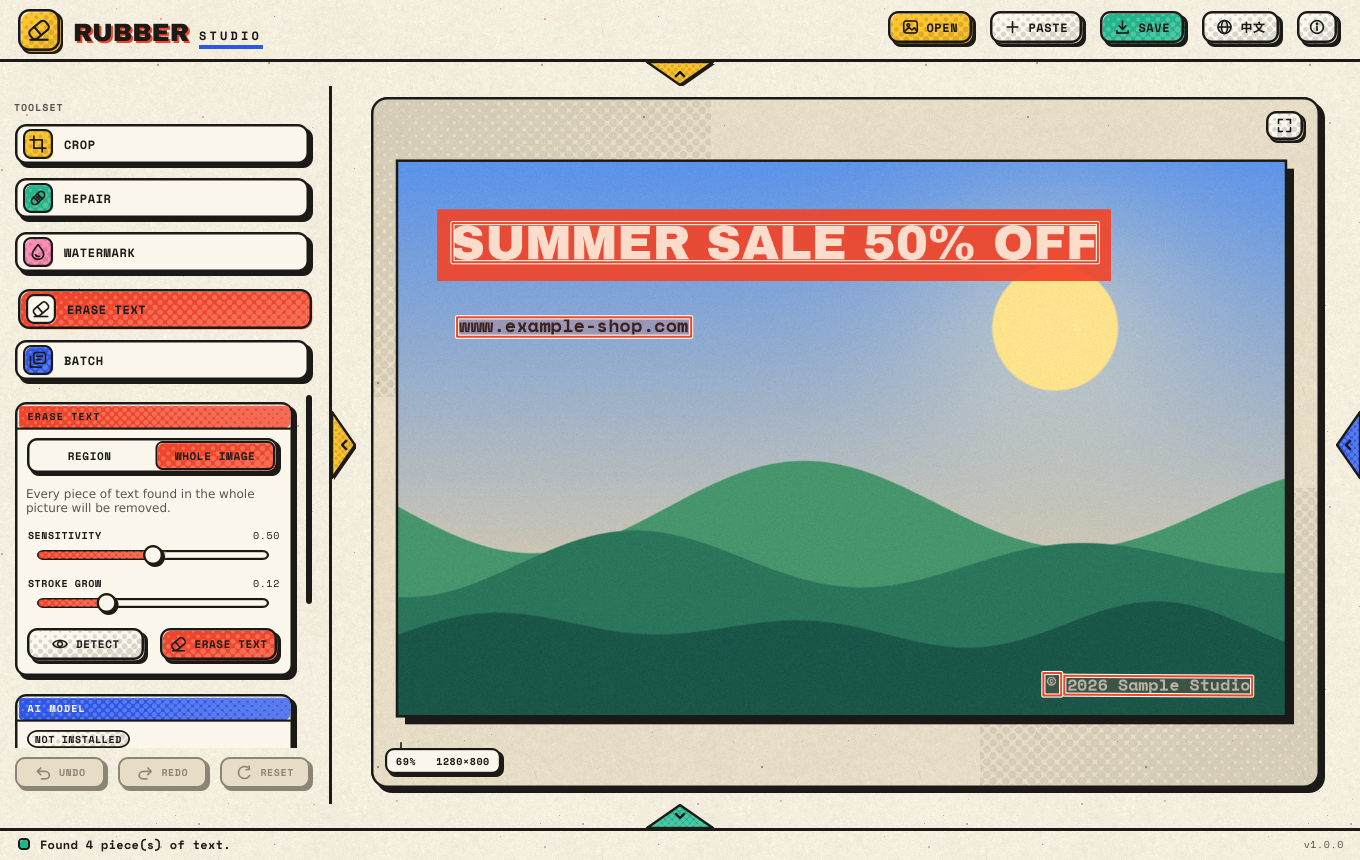
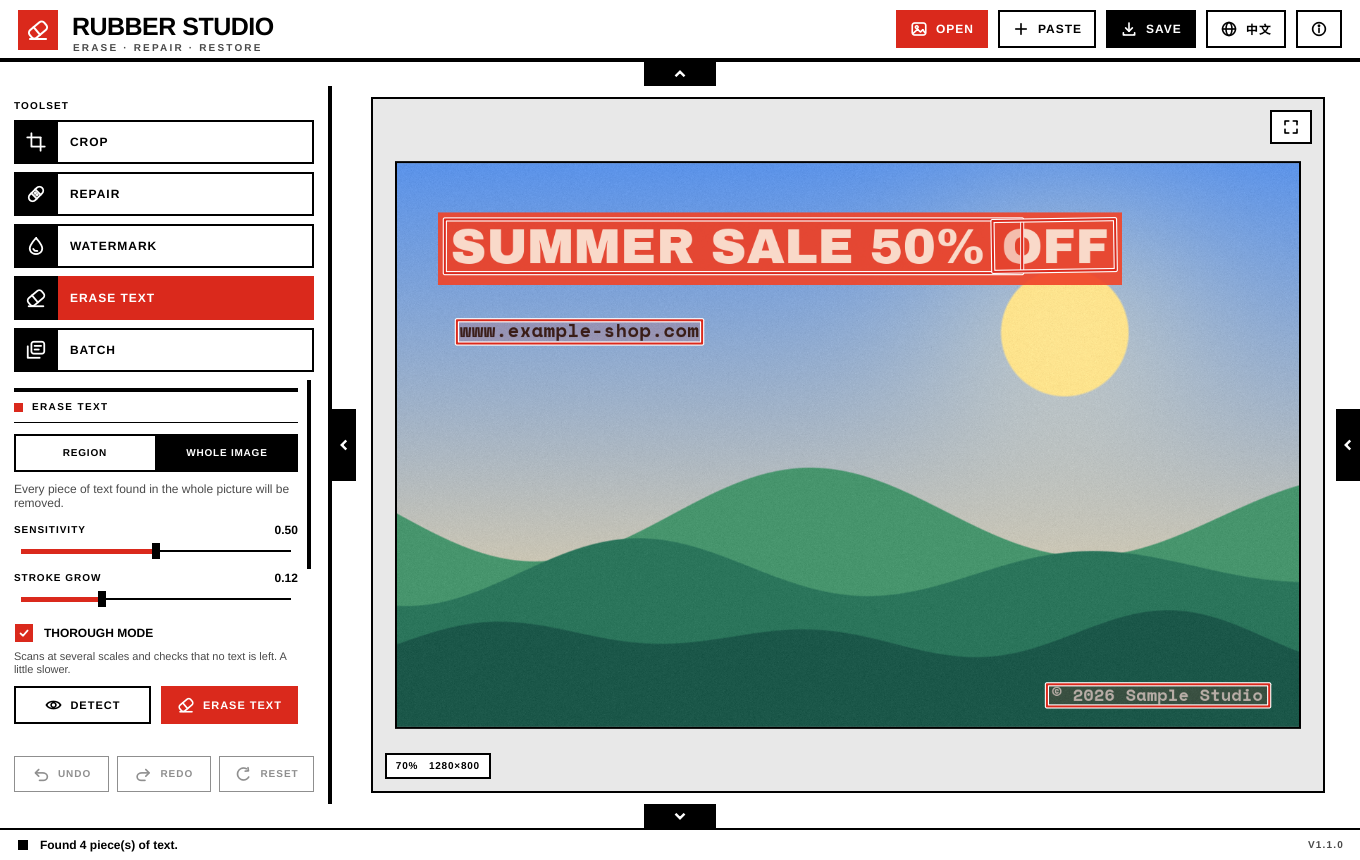
RUBBER STUDIO 1.1.0: documentation, changelog and release notes
- README (English and Chinese) rewritten: the fill engines and their speeds, the
  verification-based removal pipeline, the NASA-1975-inspired design (with a note
  that the project is not affiliated with NASA), layout, release steps for v1.1.0.
- NOTICE: PP-OCRv4 and PP-OCRv5 detectors (Apache-2.0), optional MI-GAN (MIT),
  Liberation Sans as the interface font, demo-only fonts.
- CHANGELOG.md added; the release page text now lists what is new in 1.1.
- Screenshots regenerated from real runs of the new interface on the synthetic
  sample picture.
- Version 1.1.0.

Claude-Session: https://claude.ai/code/session_01F8gxvCXadRXd2xxKrfwhYd

diff --git a/rubberstudio/__init__.py b/rubberstudio/__init__.py
@@ -1,5 +1,5 @@
 """RUBBER STUDIO — erase, repair, restore. Batch text removal for images."""
 
-__version__ = "1.0.0"
+__version__ = "1.1.0"
 APP_NAME = "RUBBER STUDIO"
 APP_ID = "RubberStudio"

diff --git a/README.md b/README.md
@@ -14,19 +14,22 @@ Batch-remove text from images — plus retouching, cropping and watermarking —
 
 [**⬇ Download for Windows**](../../releases/latest) · [简体中文](README.zh-CN.md)
 
-<img src="docs/images/batch.png" alt="RUBBER STUDIO — batch text removal with the film-strip queue" width="900">
+<img src="docs/images/batch.png" alt="RUBBER STUDIO — batch text removal with the queue" width="900">
 
 </div>
 
 ## What it does
 
 - **Batch text removal** — drop a pile of pictures or whole folders onto the window, press *Start*, and every image comes
-  back with its text gone. The queue is a *film strip* with live status for each frame; you can stop at any time,
-  re-run, open any frame in the editor and compare before / after.
-- **Real text removal, not blur** — an on-device detector (PP-OCRv4, Chinese + English + mixed text) finds the text, and
-  only the *letter strokes* are repainted, so the picture around the text stays untouched. Flat and gradient
-  backgrounds (banners, subtitles, captions, watermarks) are filled instantly; busy photo backgrounds can use an
-  optional AI inpainting model (LaMa) that is downloaded once and then works offline.
+  back with its text gone. The queue shows live status for every picture; you can stop at any time, re-run, open any
+  picture in the editor and compare before / after.
+- **Real text removal, not blur** — two on-device detectors (PP-OCRv4 and PP-OCRv5, Chinese + English + mixed text, run at
+  several scales) find the text, and only the *letter strokes* are repainted, so the picture around the text stays
+  untouched. In *thorough mode* every stroke mask is checked by the detector itself — if text would still be visible it
+  tries the next candidate — so thin, soft or letter-spaced type does not survive.
+- **Choose the fill engine** — *Auto*, *Fast*, *MI-GAN* or *LaMa*. Flat and gradient backgrounds (banners, subtitles,
+  captions, watermarks) are filled instantly by the built-in fill; patterned or photographic backgrounds use a neural
+  model that is downloaded once (only after you confirm) and then works offline. See [Fill engines](#fill-engines).
 - **Safe by default** — originals are never overwritten. Results go to a `RubberStudio_clean` folder next to each image
   (or any folder you pick), with a file-name suffix, output format (same / PNG / JPG / WebP) with quality, sub-folder
   structure kept, and a rule for existing files (rename / skip / overwrite). Several images are processed in parallel;
@@ -36,14 +39,15 @@ Batch-remove text from images — plus retouching, cropping and watermarking —
 - **Single-image tools** — *Erase text* (whole image or a framed region, with a detection preview and a before / after
   switch), *Repair* brushes (heal, smudge, re-grain texture), *Crop* and a text *Watermark* with font, colour, size and
   opacity.
-- **Private** — nothing is uploaded. The only network access is the optional AI model download, and only after you
+- **Private** — nothing is uploaded. The only network access is the optional model download, and only after you
   confirm it.
 - **Windows-ready** — portable folder (no installer, no admin rights), Unicode / Chinese paths everywhere, high-DPI
   aware, Chinese and English interface.
 
 <div align="center">
-<img src="docs/images/erase-detect.png" alt="Erase text: detection preview" width="440">
-<img src="docs/images/folded.png" alt="All toolbars fold away to maximise the picture" width="440">
+<img src="docs/images/erase-detect.png" alt="Erase text: detection preview" width="290">
+<img src="docs/images/erase-result.png" alt="Text removed, with the fill-engine card" width="290">
+<img src="docs/images/folded.png" alt="All toolbars fold away to maximise the picture" width="290">
 </div>
 
 ## Download (Windows 10 / 11, 64-bit)
@@ -59,7 +63,7 @@ from this repository, and the workflow runs the self-test of the built program b
 If the program does not start on a very fresh Windows install, install the
 [Microsoft Visual C++ Redistributable (x64)](https://aka.ms/vs/17/release/vc_redist.x64.exe).
 
-Settings, logs and the optional AI model live in `%LOCALAPPDATA%\RubberStudio`. Delete that folder to reset everything;
+Settings, logs and the optional models live in `%LOCALAPPDATA%\RubberStudio`. Delete that folder to reset everything;
 delete the program folder to uninstall.
 
 ## Using it
@@ -81,14 +85,24 @@ delete the program folder to uninstall.
 | `0`, wheel, `Space`+drag | fit to window, zoom, pan |
 | `F1` | help |
 
-The toolbars fold away like envelopes (click the tab on the edge) so the picture gets the whole window.
+The toolbars fold away (click the black tab on the edge) so the picture gets the whole window.
 
-### AI fill (optional)
+### Fill engines
 
-Open the *AI model* card in the *Erase text* tool: **Download** fetches `lama.onnx` (about 208 MB, Apache-2.0,
-[Carve/LaMa-ONNX](https://huggingface.co/Carve/LaMa-ONNX)) from Hugging Face or a mirror after you confirm, or
-**Import…** takes a model file you already have. Without it everything still works with the built-in fast fill.
-Tick *Use AI model* to let complicated backgrounds use it automatically, or *Always use AI* to force it.
+The *Fill engine* card (in *Erase text* and *Batch*) decides how the gaps left by the text are filled:
+
+| Engine | Download | Speed¹ | Best for |
+|---|---|---|---|
+| **Auto** (default) | – | 4–23 s | flat backgrounds use the built-in fill, busy ones the best installed model (LaMa, else MI-GAN) |
+| **Fast** | none | ≈ 4 s | banners, captions, gradients, soft shading |
+| **MI-GAN** | ≈ 28 MB | ≈ 7 s | photos and simple textures |
+| **LaMa** | ≈ 208 MB | ≈ 23 s | complex patterns and textures (silk, fabric, foliage) |
+
+¹ an 800 × 800 picture with two lines of text, 2 CPU cores, detection included.
+
+**Download** fetches the model from Hugging Face (or a mirror) after you confirm — the files are checked against a pinned
+SHA-256 — or **Import a model…** takes an ONNX file you already have. A model that is chosen but not installed is
+replaced by the best one that is, and the status bar says so. Models are stored in `%LOCALAPPDATA%\RubberStudio\models`.
 
 ## Run from source
 
@@ -107,7 +121,7 @@ On Windows, `run_windows.bat` does the same in one double-click. Useful switches
 
 ## Build the Windows program yourself
 
-Either let GitHub do it (push a tag such as `v1.0.0`; the workflow builds, tests and attaches the zip to a release), or
+Either let GitHub do it (push a tag such as `v1.1.0`; the workflow builds, tests and attaches the zip to a release), or
 on a Windows machine with Python 3.12:
 
 ```bat
@@ -121,34 +135,39 @@ Tests (engine and GUI, headless): `pip install -r requirements-dev.txt && python
 
 ## How the text removal works
 
-1. **Detect** — a DBNet text detector (PP-OCRv4, ONNX Runtime, CPU) finds text lines; big pictures are processed in
-   overlapping tiles at native resolution so small print is not lost; tiny glyphs next to confident text ("©", bullets,
-   dots) are recovered by hysteresis, and symbols the network does not react to at all are picked up by looking at the
-   pixels right beside a line's ends (same ink colour, glyph-sized, on flat or smoothly shaded backgrounds only).
-2. **Strokes only** — inside each box the background is modelled (a fitted plane on the box margin for flat or smooth
-   surfaces, a local median otherwise) and the pixels that differ from it become the stroke mask, grown a little and
-   closed so no speck of the glyph colour is left to be smeared by the fill.
-3. **Fill** — flat surroundings get a fast inpainting fill with matched grain; busy ones go to LaMa when it is installed.
+1. **Detect** — two DBNet text detectors (PP-OCRv4 and PP-OCRv5-mobile, ONNX Runtime, CPU) look at the picture at
+   several scales and their boxes are merged line by line; big pictures are processed in overlapping tiles at native
+   resolution so small print is not lost. Tiny glyphs next to confident text ("©", bullets, dots) are recovered by
+   hysteresis, and symbols the network does not react to at all are picked up by looking at the pixels right beside a
+   line's ends (same ink colour, glyph-sized, on flat or smoothly shaded backgrounds only).
+2. **Strokes only** — inside each box several candidate ink colours are tried (colour-histogram peaks, the brightest and
+   darkest pixels); each becomes a stroke mask, grown a little and closed so no speck of the glyph colour is left. The
+   candidates are ranked by how clearly they separate the glyphs from their surroundings, and in *thorough mode* the
+   first one that really works wins: the detector looks at the picture with that mask painted over, and only a mask after
+   which no text is left is accepted (otherwise the whole padded box is used).
+3. **Fill** — the gaps are filled in native-resolution 512 × 512 windows with plenty of context, blended with a feathered
+   edge, and the picture's own sensor grain is put back so the repaired spot does not look airbrushed.
 
-Tips: raise *Sensitivity* for faint or stylised text, lower it if non-text shapes get detected; raise *Stroke grow* if
-a thin outline or shadow around the letters survives.
+Tips: raise *Sensitivity* for faint or stylised text, lower it if non-text shapes get detected; raise *Stroke grow* if a
+thin outline or shadow around the letters survives; pick *LaMa* when the background is a dense pattern.
 
 ## Design
 
-The interface speaks a colour-clash paper-and-film pop-art language: flat inks with deliberately mis-registered colour
-fills, Ben-Day halftone dots on every coloured surface, hard offset shadows, buttons that press into them, paper grain,
-Archivo Black + Space Mono type, and toolbars that fold like envelopes. All colours, fonts and metrics are centralised
-in [`rubberstudio/theme.py`](rubberstudio/theme.py).
+The interface follows the discipline of the 1975 NASA Graphics Standards Manual: a white page, black type and rules,
+exactly one red (`#DA291C`) that marks the active tool and the primary action, Helvetica-style type (Liberation Sans,
+bundled), tracked capitals for labels, a heavy rule above every section, and strict rectangles — no gradients, shadows,
+textures or rounded corners. It uses none of NASA's marks and is not affiliated with NASA. All colours, fonts and metrics
+are centralised in [`rubberstudio/theme.py`](rubberstudio/theme.py).
 
 ## Project layout
 
 ```
 rubberstudio/
-  core/        engine without Qt: text detector, stroke mask + fill, LaMa wrapper, batch runner, image I/O
-  widgets/     canvas, drawer pages, film strip, envelope panels, pop-art controls, procedural icons, dialogs
+  core/        engine without Qt: text detectors, stroke mask + verification, fill engines (LaMa / MI-GAN / fast), batch, image I/O
+  widgets/     canvas, tool pages, queue, folding panels, flat controls, procedural icons, dialogs
   editor.py    editing model (tools, undo/redo, async erase)      mainwindow.py   window, drag & drop, shortcuts
   theme.py     design tokens and stylesheet                       strings.py      English / Chinese interface text
-assets/        fonts (OFL), icon, UI images                       packaging/      PyInstaller spec and launcher
+assets/        fonts (OFL), icon, UI images                       packaging/      PyInstaller spec, launcher, icon script
 tests/         engine, batch and GUI tests                        .github/        Windows build workflow
 ```
 
@@ -159,5 +178,5 @@ may infringe their rights.
 
 ## License
 
-[MIT](LICENSE). Third-party components (detection model, fonts, Qt, OpenCV, ONNX Runtime, …) and their licenses are
+[MIT](LICENSE). Third-party components (detection and fill models, fonts, Qt, OpenCV, ONNX Runtime, …) and their licenses are
 listed in [NOTICE.md](NOTICE.md).

diff --git a/README.zh-CN.md b/README.zh-CN.md
@@ -14,29 +14,32 @@
 
 [**⬇ 下载 Windows 版**](../../releases/latest) · [English](README.md)
 
-<img src="docs/images/batch-zh.png" alt="RUBBER STUDIO —— 批量去文字与胶片队列" width="900">
+<img src="docs/images/batch-zh.png" alt="RUBBER STUDIO —— 批量去文字与队列" width="900">
 
 </div>
 
 ## 功能
 
-- **批量去除文字** —— 把一堆图片或整个文件夹拖进窗口，点“开始”，每张图都会去掉文字后输出。队列以“胶片”形式显示，
-  每一帧都有实时状态；可随时停止、重新运行，也可以把任意一帧打开到编辑器里对比“原图”。
-- **真正的去字，而不是模糊** —— 本机文字检测器（PP-OCRv4，支持中文、英文及混排）找到文字，只重绘**笔画本身**，
-  文字周围的画面保持不动。纯色/渐变背景（横幅、字幕、说明文字、水印）瞬间填好；复杂的照片背景可使用可选的
-  AI 修复模型（LaMa），下载一次之后同样离线使用。
+- **批量去除文字** —— 把一堆图片或整个文件夹拖进窗口，点“开始”，每张图都会去掉文字后输出。队列实时显示每张图的状态；
+  可随时停止、重新运行，也可以把任意一张打开到编辑器里对比“原图”。
+- **真正的去字，而不是模糊** —— 两个本机文字检测器（PP-OCRv4 与 PP-OCRv5，支持中文、英文及混排，多尺度检测）找到文字，
+  只重绘**笔画本身**，文字周围的画面保持不动。“彻底模式”下，每个笔画蒙版都会交给检测器自己复查——如果还能看到文字，
+  就换下一个候选——所以细线、浅色、字距很大的文字也不会残留。
+- **可选择的填补引擎** —— “自动 / 快速 / MI-GAN / LaMa”。纯色和渐变背景（横幅、字幕、说明文字、水印）由内置填充瞬间补好；
+  有图案或照片般的背景则交给神经网络模型（确认后下载一次，之后离线使用）。详见[填补引擎](#填补引擎)。
 - **默认安全** —— 绝不覆盖原图。结果默认写入每张图片所在文件夹下的 `RubberStudio_clean`（也可自选文件夹），可设置文件名
   后缀、输出格式（原格式 / PNG / JPG / WebP）及质量、是否保留子文件夹结构，以及文件已存在时的处理（改名 / 跳过 / 覆盖）。
   多张图片并行处理；没有文字的图片也可以一并复制过去。
 - **一个区域，全部适用** —— 在示例图上框出一块位置（比如角落的水印条），所有图片都只清理同一相对位置。
 - **单张图片工具** —— “去除文字”（整张图片或框选区域，带检测预览和“原图”对比开关）、“修复”画笔（修复、涂抹、
   重建颗粒）、“裁剪”，以及可调字体、颜色、大小、不透明度的文字“水印”。
-- **隐私** —— 不上传任何内容。唯一的联网行为是可选的 AI 模型下载，并且只在你确认之后才会进行。
+- **隐私** —— 不上传任何内容。唯一的联网行为是可选的模型下载，并且只在你确认之后才会进行。
 - **为 Windows 准备** —— 绿色免安装文件夹（无需管理员权限），全程支持中文/Unicode 路径，适配高分屏，界面有中文和英文。
 
 <div align="center">
-<img src="docs/images/erase-detect.png" alt="去除文字：检测预览" width="440">
-<img src="docs/images/folded.png" alt="所有工具栏可折叠，让画面占满窗口" width="440">
+<img src="docs/images/erase-detect.png" alt="去除文字：检测预览" width="290">
+<img src="docs/images/erase-result.png" alt="文字已去除，旁边是填补引擎卡片" width="290">
+<img src="docs/images/folded.png" alt="所有工具栏可折叠，让画面占满窗口" width="290">
 </div>
 
 ## 下载（Windows 10 / 11，64 位）
@@ -52,7 +55,7 @@
 如果在很新的 Windows 上无法启动，请安装
 [Microsoft Visual C++ 运行库（x64）](https://aka.ms/vs/17/release/vc_redist.x64.exe)。
 
-设置、日志和可选的 AI 模型都保存在 `%LOCALAPPDATA%\RubberStudio`；删除该文件夹即可恢复初始状态，删除程序文件夹即为卸载。
+设置、日志和可选的模型都保存在 `%LOCALAPPDATA%\RubberStudio`；删除该文件夹即可恢复初始状态，删除程序文件夹即为卸载。
 
 ## 使用方法
 
@@ -71,13 +74,23 @@
 | `0`、滚轮、`空格`+拖动 | 适应窗口、缩放、平移 |
 | `F1` | 帮助 |
 
-工具栏像信封一样可以折叠（点边缘的小标签），让图片占满整个窗口。
+工具栏可以折叠（点边缘的黑色小标签），让图片占满整个窗口。
 
-### AI 填充（可选）
+### 填补引擎
 
-在“去除文字”工具里打开“AI 模型”卡片：点“**下载**”，确认后会从 Hugging Face（或镜像）获取 `lama.onnx`
-（约 208 MB，Apache-2.0，[Carve/LaMa-ONNX](https://huggingface.co/Carve/LaMa-ONNX)）；或者点“**导入…**”选择你已有的模型文件。
-不安装也完全可用（使用内置的快速填充）。勾选“使用 AI 模型”后，复杂背景会自动用它；勾选“始终使用 AI”则强制使用。
+“填补引擎”卡片（在“去除文字”和“批量去文字”里）决定如何补上文字留下的空白：
+
+| 引擎 | 需要下载 | 速度¹ | 适合 |
+|---|---|---|---|
+| **自动**（默认） | – | 4–23 秒 | 平坦背景用内置填充，复杂背景用已安装的最佳模型（优先 LaMa，其次 MI-GAN） |
+| **快速** | 无 | ≈ 4 秒 | 横幅、字幕、渐变、柔和的明暗 |
+| **MI-GAN** | ≈ 28 MB | ≈ 7 秒 | 照片和简单纹理 |
+| **LaMa** | ≈ 208 MB | ≈ 23 秒 | 复杂图案和纹理（丝绸、布料、枝叶） |
+
+¹ 800 × 800 的图片、两行文字、2 核 CPU，含检测时间。
+
+点“**下载**”，确认后会从 Hugging Face（或镜像）获取模型，并用固定的 SHA-256 校验；或者点“**导入模型…**”选择你已有的 ONNX 文件。
+选了但没安装的模型，会改用已安装的最佳模型，并在状态栏提示。模型保存在 `%LOCALAPPDATA%\RubberStudio\models`。
 
 ## 从源码运行
 
@@ -96,7 +109,7 @@ Windows 上双击 `run_windows.bat` 即可完成同样的事。常用参数：`-
 
 ## 自己打包 Windows 程序
 
-要么交给 GitHub 来做（推送一个形如 `v1.0.0` 的标签，工作流会构建、测试，并把 zip 附到发布页），要么在装有 Python 3.12 的 Windows 电脑上运行：
+要么交给 GitHub 来做（推送一个形如 `v1.1.0` 的标签，工作流会构建、测试，并把 zip 附到发布页），要么在装有 Python 3.12 的 Windows 电脑上运行：
 
 ```bat
 build_windows.bat
@@ -109,30 +122,35 @@ build_windows.bat
 
 ## 去字原理
 
-1. **检测** —— DBNet 文字检测器（PP-OCRv4，ONNX Runtime，CPU）找出文字行；大图按重叠分块、以原始分辨率处理，
-   小字不会因缩放而丢失；紧贴可靠文字的小符号（“©”、项目符号、句点）通过滞后阈值找回；模型完全没反应的符号，
-   则直接检查文字行两端旁边的像素来补上（同墨色、字符大小、仅限平坦或平滑渐变的背景）。
-2. **只取笔画** —— 在每个文字框内为背景建模（平坦/平滑背景用框边缘拟合的平面，否则用局部中值），
-   与背景不同的像素就是笔画蒙版；蒙版会稍作扩展并闭合，避免残留的笔画色点被填充算法“抹开”。
-3. **填充** —— 平坦背景用带颗粒匹配的快速修复填充；复杂背景在已安装 LaMa 时交给它处理。
+1. **检测** —— 两个 DBNet 文字检测器（PP-OCRv4 与 PP-OCRv5-mobile，ONNX Runtime，CPU）在多个尺度上观察图片，
+   并按行合并检测框；大图按重叠分块、以原始分辨率处理，小字不会因缩放而丢失。紧贴可靠文字的小符号
+   （“©”、项目符号、句点）通过滞后阈值找回；模型完全没反应的符号，则直接检查文字行两端旁边的像素来补上
+   （同墨色、字符大小、仅限平坦或平滑渐变的背景）。
+2. **只取笔画** —— 在每个文字框内尝试多个候选墨色（颜色直方图的峰值、最亮和最暗的像素），每个候选生成一个笔画蒙版，
+   并稍作扩展、闭合，避免残留的色点。候选按“把字形与周围分开的清晰程度”排序；“彻底模式”下第一个真正有效的获胜：
+   把该蒙版涂掉后让检测器再看一遍，只有“再也检测不到文字”的蒙版才会被采用（否则使用整个带边距的文字框）。
+3. **填充** —— 在原始分辨率的 512 × 512 窗口里带着充足的上下文补空白，边缘羽化融合，并把图片自带的感光颗粒放回去，
+   修补处不会像被喷过一样平滑。
 
-小技巧：文字很淡或有艺术效果时提高“灵敏度”，误检了非文字图形时降低它；字周围的细描边或阴影没去干净时提高“笔画扩展”。
+小技巧：文字很淡或有艺术效果时提高“灵敏度”，误检了非文字图形时降低它；字周围的细描边或阴影没去干净时提高“笔画扩展”；
+背景是密集图案时选“LaMa”。
 
 ## 设计
 
-界面采用撞色纸张 + 胶片的波普风：扁平油墨色与刻意错位的套色填充、所有色块上的 Ben-Day 网点、硬阴影与按下即陷入阴影的按钮、
-纸张颗粒、Archivo Black + Space Mono 字体，以及像信封一样折叠的工具栏。所有颜色、字体和尺寸集中在
+界面遵循 1975 年《NASA 平面设计标准手册》的纪律：白色页面、黑色文字与线条、只用一种红色（`#DA291C`）来标记当前工具和主要操作、
+Helvetica 风格字体（内置 Liberation Sans）、加宽字距的大写标签、每个分区上方的粗黑线，以及严格的直角矩形——没有渐变、阴影、
+纹理和圆角。不使用任何 NASA 标识，也与 NASA 无关。所有颜色、字体和尺寸集中在
 [`rubberstudio/theme.py`](rubberstudio/theme.py)。
 
 ## 目录结构
 
 ```
 rubberstudio/
-  core/        不依赖 Qt 的引擎：文字检测、笔画蒙版与填充、LaMa 封装、批量运行器、图片读写
-  widgets/     画布、工具抽屉页、胶片队列、信封面板、波普控件、矢量图标、对话框
+  core/        不依赖 Qt 的引擎：文字检测、笔画蒙版与复查、填补引擎（LaMa / MI-GAN / 快速）、批量运行器、图片读写
+  widgets/     画布、工具页、队列、可折叠面板、扁平控件、矢量图标、对话框
   editor.py    编辑模型（工具、撤销/重做、异步擦除）     mainwindow.py   主窗口、拖放、快捷键
   theme.py     设计规范与样式表                           strings.py      中英文界面文字
-assets/        字体（OFL）、图标、界面图片                packaging/      PyInstaller 规格与启动器
+assets/        字体（OFL）、图标、界面图片                packaging/      PyInstaller 规格、启动器、图标脚本
 tests/         引擎、批量与界面测试                       .github/        Windows 构建工作流
 ```
 
@@ -142,4 +160,4 @@ tests/         引擎、批量与界面测试                       .github/    
 
 ## 许可证
 
-[MIT](LICENSE)。第三方组件（检测模型、字体、Qt、OpenCV、ONNX Runtime 等）及其许可证见 [NOTICE.md](NOTICE.md)。
+[MIT](LICENSE)。第三方组件（检测与填补模型、字体、Qt、OpenCV、ONNX Runtime 等）及其许可证见 [NOTICE.md](NOTICE.md)。

diff --git a/.github/release-body.md b/.github/release-body.md
@@ -3,10 +3,21 @@
 **Download `RubberStudio-<version>-windows-x64.zip` below → unzip it anywhere → double-click `RubberStudio.exe`.**
 No installer and no Python needed. Everything runs offline on your PC.
 
+### New in 1.1
+
+- **Much stronger text removal** — two detectors (PP-OCRv4 + PP-OCRv5) at several scales, a stroke mask that is built from
+  the real ink colour and *checked by the detector itself*, and a fill that works at native resolution with the picture's
+  grain put back. Thin, soft and letter-spaced type no longer leaves stray letters or smeared patterns.
+- **Choose the fill engine** — *Auto*, *Fast*, *MI-GAN* (~28 MB) or *LaMa* (~208 MB). The models are optional, downloaded
+  only after you confirm and then used offline.
+- **New look** — a black, white and one-red interface in the spirit of the 1975 NASA Graphics Standards Manual:
+  Helvetica-style type, strict rectangles, no gradients or shadows.
+
+### What it does
+
 - **Batch text removal** — add images or whole folders (or drop them on the window), choose the output folder / name suffix /
   format / what to do with existing files, press START. Nothing is ever overwritten unless you pick *overwrite*.
 - **Single-picture tools** — erase text, watermark removal, repair brush, crop, with undo / redo and a before / after view.
-- **Optional AI fill (LaMa, ~208 MB)** for busy backgrounds — downloaded only after you confirm; the program works without it.
 - English / 简体中文 interface.
 
 > The program is not code-signed, so Windows SmartScreen may say *"Windows protected your PC"* the first time:
@@ -18,10 +29,18 @@ No installer and no Python needed. Everything runs offline on your PC.
 **下载下面的 `RubberStudio-<版本>-windows-x64.zip` → 解压到任意位置 → 双击 `RubberStudio.exe`。**
 无需安装、无需 Python，全部在本机离线运行。
 
-- **批量去除图片内文字**：添加图片或整个文件夹（也可直接拖进窗口），设置输出文件夹 / 文件名后缀 / 格式 / 同名文件处理方式，点 START。
+### 1.1 新变化
+
+- **去字效果大幅增强**：两个检测器（PP-OCRv4 + PP-OCRv5）多尺度检测；笔画蒙版按真实墨色生成并由检测器自己复查；
+  填补在原始分辨率下进行并还原图片的颗粒。细线、浅色、字距很大的文字不再残留笔画或把图案抹花。
+- **可选择填补引擎**：“自动 / 快速 / MI-GAN（约 28 MB）/ LaMa（约 208 MB）”。模型可选，确认后才会下载，之后离线使用。
+- **全新外观**：参考 1975 年 NASA 平面设计标准手册的黑、白、单一红色界面——Helvetica 风格字体、严格的直角矩形，无渐变与阴影。
+
+### 功能
+
+- **批量去除图片内文字**：添加图片或整个文件夹（也可直接拖进窗口），设置输出文件夹 / 文件名后缀 / 格式 / 同名文件处理方式，点“开始”。
   除非你选择“覆盖”，否则不会覆盖任何文件。
 - **单张图片工具**：去字、去水印、修复笔刷、裁剪，支持撤销 / 重做与前后对比。
-- **可选 AI 填充（LaMa，约 208 MB）**，用于复杂背景——确认后才会下载，不装也能正常使用。
 - 中 / 英文界面。
 
 > 程序没有代码签名，首次运行时 Windows SmartScreen 可能提示“Windows 已保护你的电脑”：点**更多信息 → 仍要运行**即可。

diff --git a/CHANGELOG.md b/CHANGELOG.md
@@ -1,0 +1,28 @@
+# Changelog
+
+## 1.1.0
+
+**Text removal**
+- Detection: PP-OCRv5-mobile joins PP-OCRv4; both run at several scales and their boxes are merged per line, which finds
+  edge letters and letter-spaced type that a single pass missed.
+- Stroke mask: several candidate ink colours per box (histogram peaks, brightest / darkest pixels), ranked by how well they
+  separate glyphs from their surroundings. In *thorough mode* the detector re-checks the picture with the mask painted
+  over and only accepts a mask after which no text is left (else the whole padded box is used).
+- Fill: native-resolution 512 × 512 windows with context, feathered blending and grain matching instead of a down-scaled
+  pass, which smeared patterns.
+- New fill engine **MI-GAN** (~28 MB, optional) next to **LaMa** and the built-in fast fill. The new *Fill engine* card
+  chooses between *Auto*, *Fast*, *MI-GAN* and *LaMa*; models can be downloaded, imported and removed one by one.
+  Settings of 1.0 (`use AI` / `always AI`) are migrated.
+
+**Interface**
+- Redesigned in black, white and one red after the 1975 NASA Graphics Standards Manual: Liberation Sans, strict
+  rectangles, heavy section rules, no gradients, shadows, textures or rounded corners. The wipe-away title card, the
+  folding tabs, the queue rows and all dialogs were redrawn; the app icon is now a white eraser on a red square.
+- Keyboard focus is visible on all controls and the segmented switches can be driven with the arrow keys.
+
+**Other**
+- Fonts: Liberation Sans is the only interface typeface; Archivo Black and Space Mono remain only for the sample picture.
+
+## 1.0.0
+
+First release: batch text removal, single-picture eraser / repair / watermark / crop tools, Windows build.
